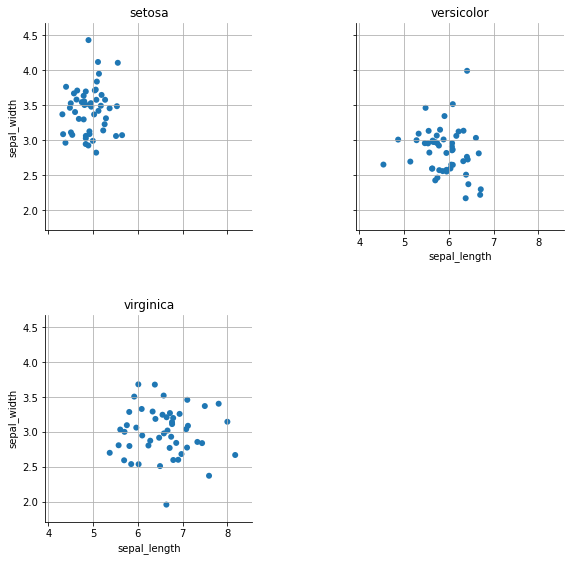
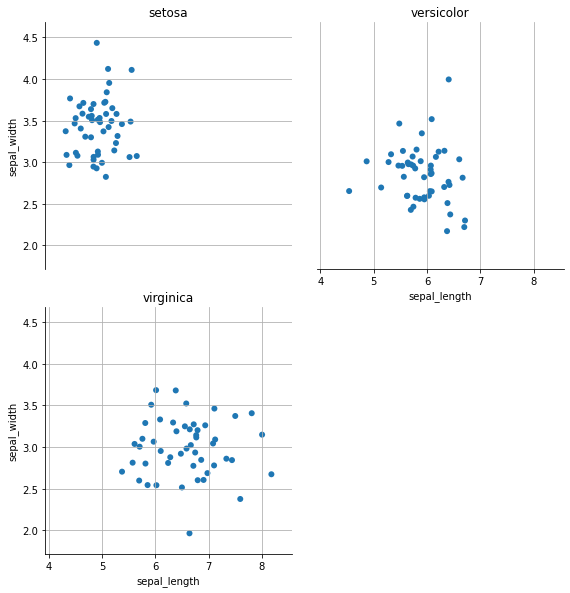
Fix facet spacing: use yaxis=None + hspace/vspace for tighter panels
yaxis='bare' did not suppress tick labels in the matplotlib backend
used for PNG export, leaving exaggerated horizontal gaps between
facet panels. Switch to yaxis=None/xaxis=None and add hspace=0.1,
vspace=0.1 to the Layout for compact ggplot2-like panel spacing.

https://claude.ai/code/session_01SmF4TLhsWWy5K2WYChHN7t

diff --git a/ggviews/facets.py b/ggviews/facets.py
@@ -197,6 +197,8 @@ class facet_wrap(Facet):
             # Suppress redundant axis labels (ggplot2 style):
             # - Only leftmost panels keep the y-axis label + ticks
             # - Only bottom-row panels keep the x-axis label + ticks
+            # Use yaxis=None / xaxis=None (not 'bare') so that tick labels
+            # are fully removed in the matplotlib backend used for PNG export.
             for idx, panel in enumerate(panels):
                 row_idx = idx // ncol
                 col_idx = idx % ncol
@@ -205,10 +207,10 @@ class facet_wrap(Facet):
                 strip_opts = {}
                 if not is_left:
                     strip_opts['ylabel'] = ''
-                    strip_opts['yaxis'] = 'bare'
+                    strip_opts['yaxis'] = None
                 if not is_bottom:
                     strip_opts['xlabel'] = ''
-                    strip_opts['xaxis'] = 'bare'
+                    strip_opts['xaxis'] = None
                 if strip_opts:
                     try:
                         panels[idx] = panel.opts(**strip_opts)
@@ -218,10 +220,16 @@ class facet_wrap(Facet):
             # Build a flat Layout and set the column count once
             layout = hv.Layout(panels).cols(ncol)
             # Suppress HoloViews "A","B","C" subplot labels (not ggplot2 style)
+            # and tighten inter-panel spacing (hspace/vspace for matplotlib).
             try:
-                layout = layout.opts(sublabel_format='')
+                layout = layout.opts(
+                    sublabel_format='', hspace=0.1, vspace=0.1,
+                )
             except Exception:
-                pass
+                try:
+                    layout = layout.opts(sublabel_format='')
+                except Exception:
+                    pass
             return layout
 
         except Exception as e:
@@ -319,10 +327,10 @@ class facet_grid(Facet):
                 strip_opts = {}
                 if not is_left:
                     strip_opts['ylabel'] = ''
-                    strip_opts['yaxis'] = 'bare'
+                    strip_opts['yaxis'] = None
                 if not is_bottom:
                     strip_opts['xlabel'] = ''
-                    strip_opts['xaxis'] = 'bare'
+                    strip_opts['xaxis'] = None
                 if strip_opts:
                     try:
                         panels[idx] = panel.opts(**strip_opts)
@@ -331,10 +339,16 @@ class facet_grid(Facet):
 
             layout = hv.Layout(panels).cols(ncol)
             # Suppress HoloViews "A","B","C" subplot labels (not ggplot2 style)
+            # and tighten inter-panel spacing (hspace/vspace for matplotlib).
             try:
-                layout = layout.opts(sublabel_format='')
+                layout = layout.opts(
+                    sublabel_format='', hspace=0.1, vspace=0.1,
+                )
             except Exception:
-                pass
+                try:
+                    layout = layout.opts(sublabel_format='')
+                except Exception:
+                    pass
             return layout
 
         except Exception as e:
